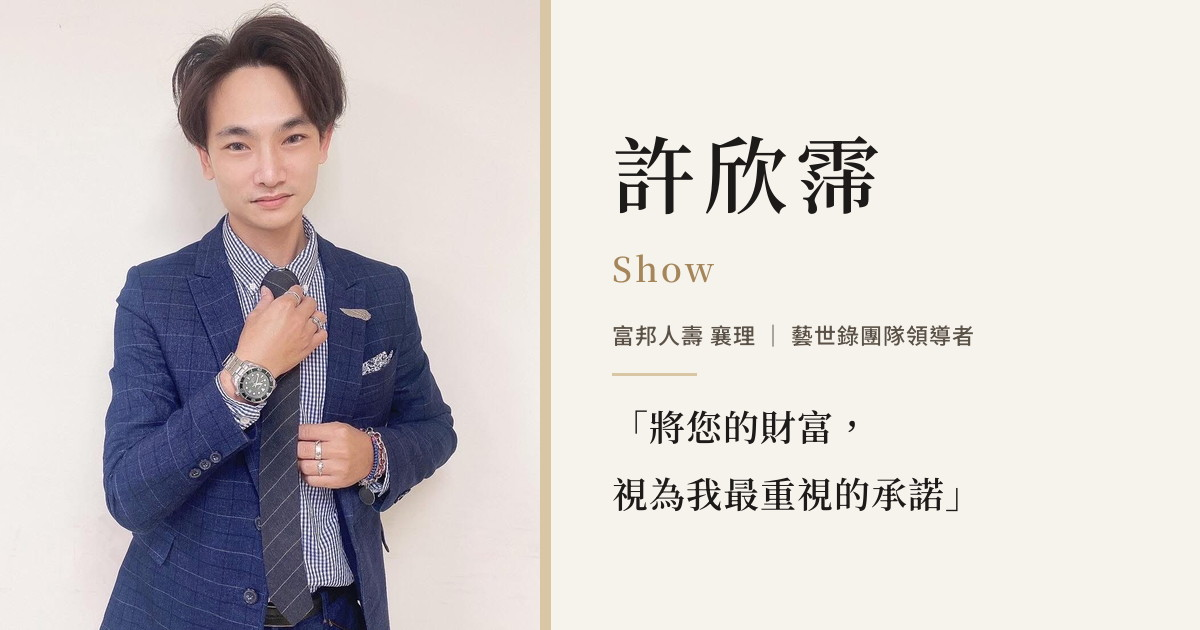
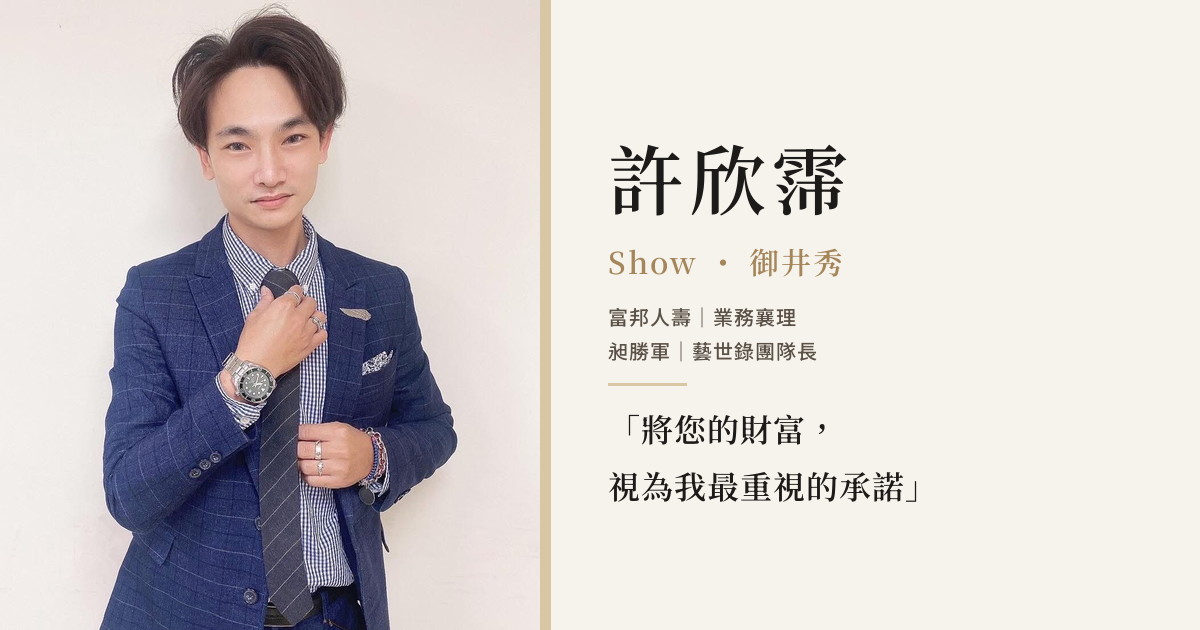
Add honors, practice, and life sections from Show's profiles
Update the hero name and titles, and refresh the share image to match.

diff --git a/index.html b/index.html
@@ -5,7 +5,7 @@
   <meta name="viewport" content="width=device-width, initial-scale=1, viewport-fit=cover">
   <script>document.documentElement.classList.add("js");</script>
   <title>許欣霈 Show｜富邦人壽・藝世錄團隊</title>
-  <meta name="description" content="許欣霈 Show，富邦人壽襄理、藝世錄團隊領導者。將您的財富，視為我最重視的承諾。">
+  <meta name="description" content="許欣霈 Show・御井秀，富邦人壽業務襄理、藝世錄團隊長。將您的財富，視為我最重視的承諾。">
   <meta name="theme-color" content="#f6f2ec">
   <meta name="format-detection" content="telephone=no">
   <meta name="apple-mobile-web-app-title" content="許欣霈 Show">
@@ -38,8 +38,8 @@
     "@context": "https://schema.org",
     "@type": "Person",
     "name": "許欣霈",
-    "alternateName": "Show",
-    "jobTitle": "富邦人壽 襄理",
+    "alternateName": ["Show", "御井秀"],
+    "jobTitle": "富邦人壽 業務襄理",
     "description": "將您的財富，視為我最重視的承諾",
     "url": "https://show-hsin-pei.github.io/",
     "image": "https://show-hsin-pei.github.io/portrait.jpg",
@@ -76,15 +76,61 @@
         <div class="hero-text">
           <h1 id="hero-name">
             <span class="name-zh">許欣霈</span>
-            <span class="name-en">Show</span>
+            <span class="name-rest">Show ・ 御井秀</span>
           </h1>
-          <p class="role">富邦人壽 襄理 <span class="pipe">｜</span> 藝世錄團隊領導者</p>
+          <p class="role">富邦人壽<span class="pipe">｜</span>業務襄理</p>
+          <p class="role">昶勝軍<span class="pipe">｜</span>藝世錄團隊長</p>
+          <p class="since">高雄 ・ 2016 年入行</p>
           <p class="tagline">「將您的財富，<br>視為我最重視的承諾」</p>
           <div class="cta">
             <a class="btn btn-solid" href="https://line.me/ti/p/s-MhJmb-Q-">加 LINE 聊聊 →</a>
             <a class="btn btn-ghost" href="https://yishilu-daily.github.io/" target="_blank" rel="noopener noreferrer">看每日專欄 →</a>
           </div>
         </div>
+      </div>
+    </section>
+
+    <section class="honors" id="honors">
+      <div class="wrap reveal">
+        <p class="eyebrow" lang="en">Honors</p>
+        <h2>專業與肯定</h2>
+        <ul class="badges">
+          <li>亞太保險獎</li>
+          <li>MDRT</li>
+          <li>IDA 龍獎</li>
+          <li>首位勞務師</li>
+        </ul>
+        <p class="honors-note">入行至今十年，將所學一一分享給客戶。</p>
+      </div>
+    </section>
+
+    <section class="practice" id="practice">
+      <div class="wrap reveal">
+        <p class="eyebrow" lang="en">What I Do</p>
+        <h2>專門解決<br>你無法解決的問題</h2>
+        <div class="service-grid">
+          <article class="service">
+            <svg viewBox="0 0 32 32" width="28" height="28" aria-hidden="true" fill="none" stroke="currentColor" stroke-width="1.6" stroke-linecap="round" stroke-linejoin="round"><path d="M5 25h22"/><path d="M8 20l6-7 4 3 8-9"/><path d="M20 7h6v6"/></svg>
+            <h3>理財與稅務規劃</h3>
+            <p>理財投資、稅務規劃、資產傳承</p>
+          </article>
+          <article class="service">
+            <svg viewBox="0 0 32 32" width="28" height="28" aria-hidden="true" fill="none" stroke="currentColor" stroke-width="1.6" stroke-linecap="round" stroke-linejoin="round"><path d="M16 26.5s-7.2-4.6-7.2-10a4.1 4.1 0 0 1 7.2-2.6 4.1 4.1 0 0 1 7.2 2.6c0 5.4-7.2 10-7.2 10z"/></svg>
+            <h3>醫療與長照</h3>
+            <p>醫療、長照保障規劃與理賠服務</p>
+          </article>
+          <article class="service">
+            <svg viewBox="0 0 32 32" width="28" height="28" aria-hidden="true" fill="none" stroke="currentColor" stroke-width="1.6" stroke-linecap="round" stroke-linejoin="round"><path d="M16 5v21M9 26h14M7 9h18"/><path d="M7 9 3.5 16h7L7 9zM25 9l-3.5 7h7L25 9z"/></svg>
+            <h3>車禍和解・勞資爭議</h3>
+            <p>陪你把事情處理好</p>
+          </article>
+          <article class="service">
+            <svg viewBox="0 0 32 32" width="28" height="28" aria-hidden="true" fill="none" stroke="currentColor" stroke-width="1.6" stroke-linecap="round" stroke-linejoin="round"><circle cx="12" cy="11" r="3.2"/><path d="M5.5 24c.9-3.6 3.1-5.4 6.5-5.4s5.6 1.8 6.5 5.4"/><path d="M22 13.5v8M18 17.5h8"/></svg>
+            <h3>壽險顧問養成</h3>
+            <p>帶新夥伴一步步建立自己的系統</p>
+          </article>
+        </div>
+        <blockquote class="pullquote long">「保險最有意義的時候，<br>不是在簽約的那一天。<br>而是在你遇到事情時，<br>知道身邊有一個人<br>願意陪你把問題處理好。」</blockquote>
       </div>
     </section>
 
@@ -132,6 +178,7 @@
           <p>我一直相信，一個業務要成功，光會成交不夠，還要有一套能傳給下一個人的系統。系統傳下去了，保險的價值才能一棒接一棒，我們也才能服務到更多家庭。</p>
           <p>團隊裡的每個人都代表我。團隊越強，我能守護的人就越多。</p>
         </div>
+        <blockquote class="team-quote">「保險業不保證輕鬆，也不適合只想等待薪水的人。」</blockquote>
         <div class="invite">
           <h3>我在找這樣的你</h3>
           <p>願意做，不安於現狀，想給自己一個不一樣的未來。符合這幾點，歡迎來聊聊。</p>
@@ -149,6 +196,20 @@
             <p>每天挑幾則保險、理財新聞，用我的話寫給你看。</p>
           </span>
           <span class="column-go" aria-hidden="true">→</span>
+        </a>
+      </div>
+    </section>
+
+    <section class="life" id="life">
+      <div class="wrap reveal">
+        <p class="eyebrow" lang="en">Life</p>
+        <h2>工作之外</h2>
+        <div class="prose">
+          <p>我是和尚鸚鵡六寶爸，家裡有酷比、酷吉、酷胖、酷旺、酷碰、酷寶六個寶貝。也愛車，平常的生活和牠們的日常都在 IG 和臉書上。</p>
+        </div>
+        <a class="btn btn-ghost btn-sm" href="https://www.instagram.com/show_lovestar/" target="_blank" rel="noopener noreferrer">
+          <svg viewBox="0 0 24 24" width="16" height="16" aria-hidden="true"><rect x="4" y="4" width="16" height="16" rx="4.5" fill="none" stroke="currentColor" stroke-width="1.7"/><circle cx="12" cy="12" r="3.4" fill="none" stroke="currentColor" stroke-width="1.7"/><circle cx="16.8" cy="7.2" r=".9" fill="currentColor"/></svg>
+          Instagram
         </a>
       </div>
     </section>
@@ -187,6 +248,7 @@
 
   <footer>
     <p>© 許欣霈 Show ・ 藝世錄</p>
+    <p class="hash">#我是富邦人壽秀</p>
   </footer>
 
   <a class="line-fab" href="https://line.me/ti/p/s-MhJmb-Q-">

diff --git a/styles.css b/styles.css
@@ -187,22 +187,29 @@ h2 {
   letter-spacing: .16em;
   text-indent: .16em;
 }
-.name-en {
+.name-rest {
   display: block;
-  margin-top: 8px;
+  margin-top: 10px;
   color: var(--gold);
-  font-size: 13px;
-  font-weight: 500;
-  letter-spacing: .34em;
-  text-indent: .34em;
-  text-transform: none;
+  font-family: var(--serif);
+  font-size: clamp(16px, 4.2vw, 20px);
+  font-weight: 600;
+  letter-spacing: .14em;
+  text-indent: .14em;
 }
 .role {
-  margin: 22px 0 0;
+  margin: 18px 0 0;
   color: var(--secondary);
   font-size: 13.5px;
   letter-spacing: .12em;
-  line-height: 1.8;
+  line-height: 1.7;
+}
+.role + .role { margin-top: 2px; }
+.since {
+  margin: 10px 0 0;
+  color: var(--secondary);
+  font-size: 12px;
+  letter-spacing: .16em;
 }
 .pipe { color: var(--gold-soft); }
 .tagline {
@@ -244,6 +251,74 @@ h2 {
 .btn-ghost:hover { background: var(--ink); color: var(--bg); }
 .cta .btn { width: 100%; }
 .btn:active { transform: translateY(1px); }
+
+/* honors */
+.honors { background: var(--bg-2); }
+.badges {
+  display: grid;
+  grid-template-columns: 1fr 1fr;
+  gap: 12px;
+  max-width: 760px;
+  margin: 0;
+  padding: 0;
+  list-style: none;
+}
+.badges li {
+  display: grid;
+  place-items: center;
+  min-height: 72px;
+  margin: 0;
+  padding: 16px 10px;
+  border: 1px solid var(--gold);
+  border-radius: 16px;
+  background: var(--card);
+  color: var(--ink);
+  font-family: var(--serif);
+  font-size: 16px;
+  font-weight: 600;
+  letter-spacing: .08em;
+  text-align: center;
+  line-height: 1.45;
+}
+.honors-note {
+  margin: 18px 0 0;
+  color: var(--secondary);
+  font-size: 15px;
+  letter-spacing: .04em;
+}
+
+/* practice */
+.service-grid {
+  display: grid;
+  gap: 12px;
+}
+.service {
+  padding: 22px 20px 24px;
+  background: var(--card);
+  border: 1px solid var(--line);
+  border-radius: 18px;
+}
+.service svg { color: var(--gold); }
+.service h3 {
+  margin: 14px 0 6px;
+  font-family: var(--serif);
+  font-size: 19px;
+  letter-spacing: .06em;
+}
+.service p {
+  margin: 0;
+  color: var(--secondary);
+  font-size: 15px;
+  line-height: 1.75;
+}
+.pullquote.long {
+  max-width: 16em;
+  margin: 36px auto 0;
+  font-size: clamp(18px, 4.6vw, 26px);
+  font-weight: 600;
+  letter-spacing: .04em;
+  line-height: 1.75;
+}
 
 /* story */
 .story {
@@ -312,6 +387,28 @@ h2 {
   padding-bottom: 2px;
 }
 .text-link:hover { color: var(--gold); }
+.team-quote {
+  max-width: 40rem;
+  margin: 28px 0 0;
+  font-family: var(--serif);
+  font-size: clamp(20px, 4.8vw, 26px);
+  font-weight: 600;
+  line-height: 1.65;
+  letter-spacing: .04em;
+}
+
+/* life */
+.life {
+  background: var(--card);
+  border-top: 1px solid var(--line);
+  border-bottom: 1px solid var(--line);
+}
+.btn-sm {
+  min-height: 42px;
+  margin-top: 22px;
+  padding: 8px 18px;
+  font-size: 14px;
+}
 
 /* column */
 .column-card {
@@ -414,6 +511,12 @@ footer {
   text-align: center;
 }
 footer p { margin: 0; }
+footer .hash {
+  margin-top: 8px;
+  color: var(--secondary);
+  font-size: 11px;
+  letter-spacing: .08em;
+}
 
 .line-fab {
   position: fixed;
@@ -474,16 +577,25 @@ footer p { margin: 0; }
   .hero-text { order: -1; text-align: left; }
   .hero-photo { width: min(100%, 420px); margin: 0 0 0 auto; }
   .cta { justify-content: flex-start; }
-  .role { letter-spacing: .18em; font-size: 14px; }
+  .role { letter-spacing: .16em; font-size: 14px; }
+  .since { letter-spacing: .2em; }
   .story .wrap,
   .why .wrap,
   .team .wrap,
-  .column .wrap { max-width: 720px; }
+  .column .wrap,
+  .life .wrap { max-width: 720px; }
+  .badges { grid-template-columns: repeat(4, 1fr); max-width: none; gap: 16px; }
+  .badges li { min-height: 88px; font-size: 18px; }
+  .service-grid { grid-template-columns: 1fr 1fr; gap: 18px; }
+  .service { padding: 28px 26px 30px; }
   .story-card, .column-card { padding: 40px 40px 42px; }
   .invite { padding: 32px 32px 34px; }
   .pullquote { font-size: 32px; letter-spacing: .06em; }
   .contact h2 { max-width: 18em; word-break: keep-all; }
-  .contact h2 br { display: none; }
+  .contact h2 br,
+  .practice h2 br,
+  .pullquote.long br { display: none; }
+  .pullquote.long { max-width: 22em; word-break: keep-all; }
   .column-card {
     flex-direction: row;
     align-items: center;
